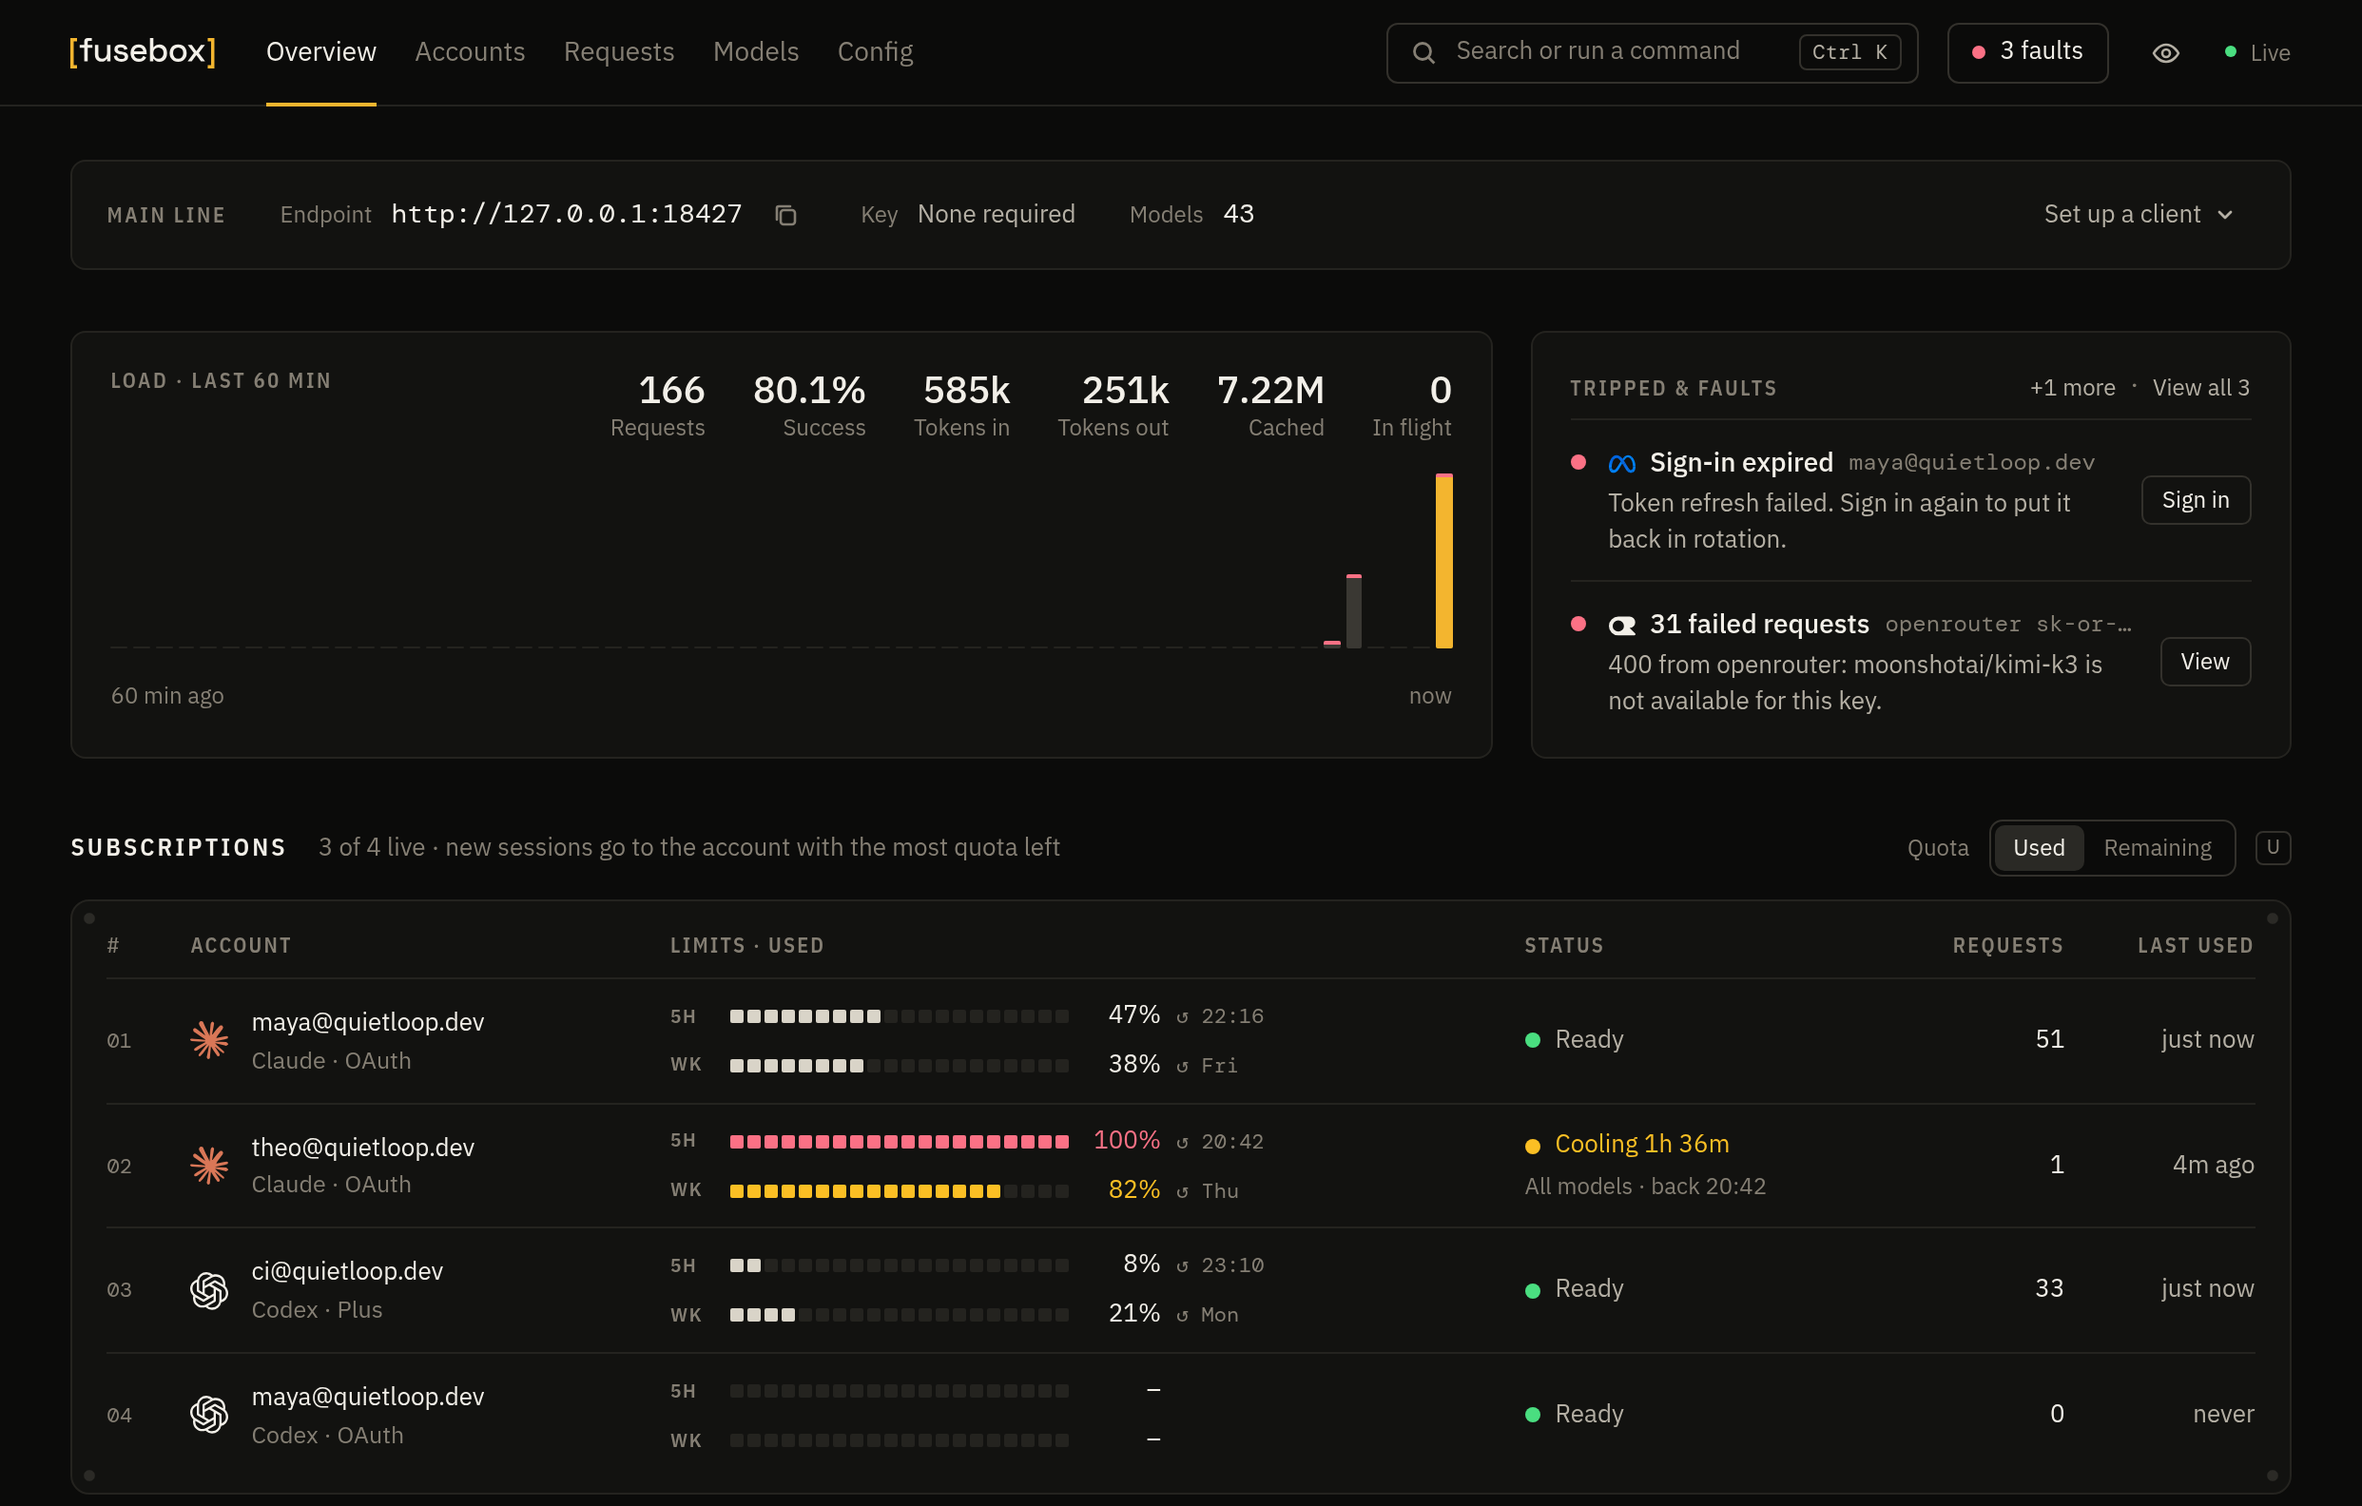
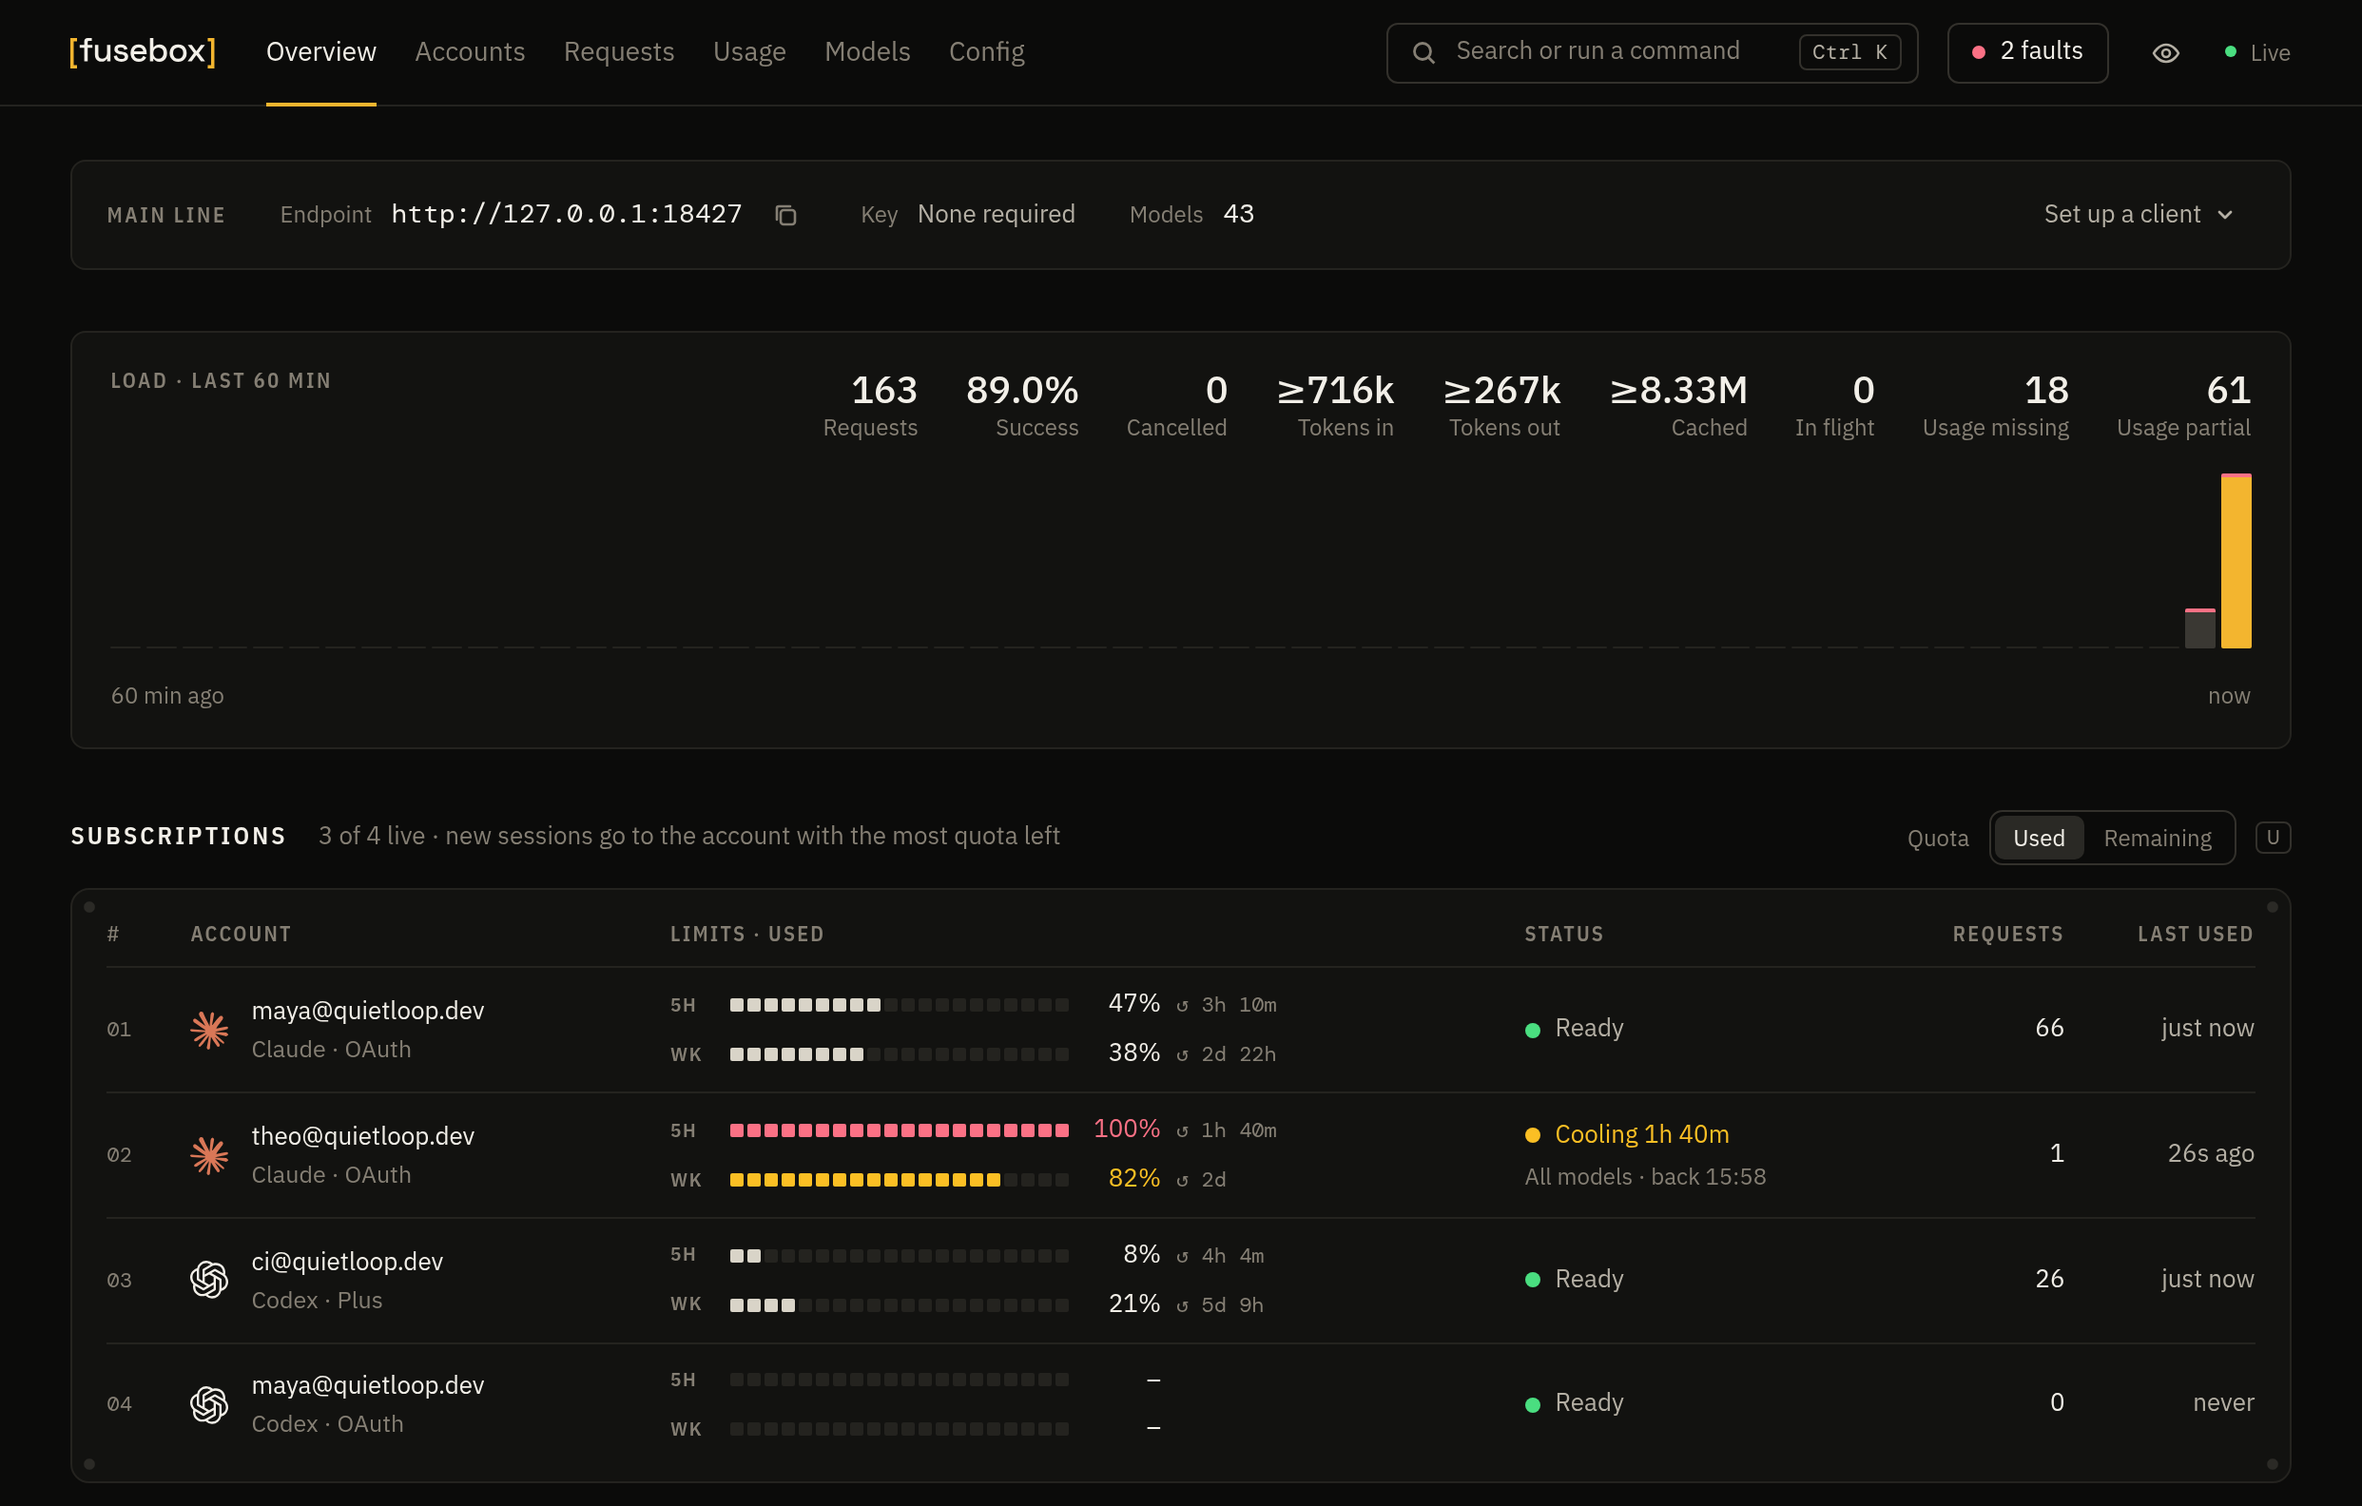
Give the overview's load card the full width
Drop the Tripped & faults card from the overview. Faults stay one tap away
in the header's faults button, which phones now also show on the overview.
Refresh the README overview screenshot.

diff --git a/ui/app.js b/ui/app.js
@@ -360,7 +360,6 @@ function onRequest(log) {
     patch('figures', figuresHTML);
     patch('bars', barsHTML);
     patch('recent', recentHTML);
-    patch('ov-faults', ovFaultsHTML);
   } else if (S.route === 'requests') {
     if (S.paused) patch('req-pause', pauseHTML);
     else insertRequest(log);
@@ -445,7 +444,6 @@ function refreshViews() {
   if (S.locked || !S.overview) return;
   if (S.route === 'overview') {
     patch('ov-main', mainlineHTML);
-    patch('ov-faults', ovFaultsHTML);
     patch('ov-subs', ovSubsHTML);
     patch('ov-other', ovOtherHTML);
     patch('recent', recentHTML);
@@ -510,7 +508,7 @@ function renderChrome() {
   if (S.route === 'overview' || S.locked) lead = `${WORDMARK}<span class="dot s6 ${S.live === 'offline' ? 'err' : 'ok'}" data-live-dot aria-hidden="true"></span>`;
   else if (S.route === 'accounts' && S.sub) lead = `<button class="back" type="button" data-act="to-list">${ICON.back}Accounts</button>`;
   else lead = `${MARK}<span class="title">${TITLES[S.route]}</span>`;
-  $('#mbar').innerHTML = `${lead}${S.route !== 'overview' ? down : ''}<span class="grow"></span>${ready && S.route !== 'overview' ? '<span class="faults-slot" data-faults-slot></span>' : ''}${ready ? searchBtn : ''}${privacyBtn}`;
+  $('#mbar').innerHTML = `${lead}${S.route !== 'overview' ? down : ''}<span class="grow"></span>${ready ? '<span class="faults-slot" data-faults-slot></span>' : ''}${ready ? searchBtn : ''}${privacyBtn}`;
   $('.bar .search').hidden = !ready;
   renderPrivacy();
   renderLive();
@@ -738,15 +736,6 @@ function alertsList() {
   return out.sort((x, y) => (x.lvl === y.lvl ? 0 : x.lvl === 'err' ? -1 : 1));
 }
 
-function alertHTML(al, i) {
-  const a = accountById(al.id);
-  if (!a) return '';
-  return `<div class="alert"${mob() ? ` data-open="${esc(a.id)}"` : ''}><span class="dot ${al.lvl}"></span>
-    <div class="alert-main"><div class="alert-top">${acctLogo(a, 14)}<span class="alert-title">${esc(al.title)}</span>${mob() ? '' : `<span class="alert-who">${esc(acctLabel(a))}</span>`}</div>
-      <div class="alert-detail">${esc(al.detail)}</div>${mob() ? `<span class="alert-who">${esc(acctLabel(a))}</span>` : ''}</div>
-    <button class="btn sm" type="button" data-act="alert" data-id="${i}">${esc(al.act)}</button></div>`;
-}
-
 function runAlert(i) {
   const al = alertsList()[Number(i)];
   if (!al) return;
@@ -764,17 +753,15 @@ function overviewHTML() {
       <div class="load-head"><h2 class="label" id="load-title">Load · last 60 min</h2><dl class="stats" id="figures">${figuresHTML()}</dl></div>
       <div class="bars" id="bars">${barsHTML()}</div>
       <div class="axis" aria-hidden="true"><span>60 min ago</span><span>now</span></div></section>`;
-  const faults = `<section class="card faults-card" id="ov-faults" aria-label="Tripped and faults">${ovFaultsHTML()}</section>`;
   const subs = `<section class="sec" id="ov-subs" aria-label="Subscriptions">${ovSubsHTML()}</section>`;
   const other = `<section class="sec" id="ov-other" aria-label="Other circuits">${ovOtherHTML()}</section>`;
   const latest = `<section class="sec" aria-labelledby="latest-title"><div class="sec-head"><h2 class="h-sec" id="latest-title">Latest requests</h2><span class="grow"></span><a class="link" href="#/requests">All requests →</a></div>
       <div id="recent">${recentHTML()}</div></section>`;
   if (mob()) {
     const loadSec = `<section class="sec" aria-labelledby="load-title-m"><h2 class="h-sec" id="load-title-m">Load · last 60 min</h2>${load.replace(' aria-labelledby="load-title"', '').replace('<h2 class="label" id="load-title">Load · last 60 min</h2>', '')}</section>`;
-    const faultSec = `<section class="sec"><div class="sec-head"><h2 class="h-sec">Tripped &amp; faults</h2><span class="kbd" style="border:0;padding:0;font-size:12px" id="ov-fault-count">${alertsList().length}</span></div>${faults}</section>`;
-    return main + faultSec + subs + loadSec + other + latest;
+    return main + subs + loadSec + other + latest;
   }
-  return `${main}<div class="ov-row">${load}${faults}</div>${subs}${other}${latest}`;
+  return `${main}${load}${subs}${other}${latest}`;
 }
 
 function figuresHTML() {
@@ -808,20 +795,6 @@ function barsHTML(series = S.overview.series) {
     return `<i${cls ? ` class="${cls}"` : ''} style="height:${b.requests ? Math.max(3, (b.requests / max) * 100) : 0}%" title="${esc(label)}"></i>`;
   });
   return `<span class="sr-only">${plural(total, 'request')} in the last hour</span>${bars.join('')}`;
-}
-
-function ovFaultsHTML() {
-  const list = alertsList();
-  const count = $('#ov-fault-count');
-  if (count) count.textContent = list.length;
-  if (mob()) {
-    return list.length ? list.map(alertHTML).join('') : '<p class="empty-line">Nothing tripped. Every account is in rotation.</p>';
-  }
-  const more = list.length - 2;
-  const head = `<div class="head"><h2 class="label">Tripped &amp; faults</h2>${more > 0
-    ? `<button class="more-btn" type="button" data-act="faults"><span>+${more} more</span><span class="mono dim">·</span><span>View all ${list.length}</span></button>`
-    : `<span class="mono dim" style="font-size:12px">${list.length}</span>`}</div>`;
-  return head + (list.length ? list.slice(0, 2).map(alertHTML).join('') : '<p class="empty-line" style="border-top:1px solid var(--line)">Nothing tripped. Every account is in rotation.</p>');
 }
 
 const ROUTING_TEXT = {
@@ -2419,7 +2392,7 @@ document.addEventListener('click', (e) => {
     case 'close-palette': return closePalette();
     case 'faults': return toggleFaults(el);
     case 'close-faults': return closeFaults();
-    case 'alert': case 'alert-open': return runAlert(id);
+    case 'alert-open': return runAlert(id);
     case 'open-acc': return openAccount(id);
     case 'close-drawer': return closeDrawer();
     case 'to-list': location.hash = '#/accounts'; return;

diff --git a/ui/style.css b/ui/style.css
@@ -402,8 +402,7 @@ h1, h2, h3, p { margin: 0; }
   .code { font-size: 12px; padding: 12px 14px; white-space: pre; overflow-x: auto; overflow-wrap: normal; }
 }
 
-.ov-row { display: flex; flex-wrap: wrap; gap: 20px; }
-.load { flex: 999 1 560px; display: flex; flex-direction: column; gap: 16px; }
+.load { display: flex; flex-direction: column; gap: 16px; }
 .load-head { display: flex; flex-wrap: wrap; align-items: flex-start; justify-content: space-between; gap: 12px 20px; }
 .stats { display: flex; flex-wrap: wrap; gap: 10px clamp(18px, 2vw, 28px); margin: 0; }
 .stats > div { display: flex; flex-direction: column; align-items: flex-end; }
@@ -418,7 +417,6 @@ h1, h2, h3, p { margin: 0; }
 .bars i.zero.now { background: var(--brand); }
 .axis { display: flex; justify-content: space-between; font-size: 12px; color: var(--fg-3); }
 @media (max-width: 759px) {
-  .load { flex: none; }
   .load { padding: 14px; gap: 14px; }
   .stats { display: grid; grid-template-columns: repeat(3, minmax(0, 1fr)); gap: 12px 10px; }
   .stats > div { align-items: flex-start; }
@@ -426,29 +424,6 @@ h1, h2, h3, p { margin: 0; }
   .stats dd { font-size: 17px; line-height: 1.2; letter-spacing: 0; }
   .bars, .bars.h72 { height: 64px; gap: 2px; }
   .axis { font-size: 11.5px; }
-}
-
-.faults-card { flex: 1 1 400px; display: flex; flex-direction: column; padding: 18px 20px 8px; }
-.faults-card .head { display: flex; align-items: center; justify-content: space-between; gap: 12px; margin-bottom: 6px; }
-.more-btn { display: flex; align-items: center; gap: 6px; padding: 2px 0; background: none; border: 0; font-size: 12px; color: var(--fg-2); }
-.more-btn:hover { color: var(--fg); }
-.alert { display: flex; gap: 12px; padding: 12px 0; border-top: 1px solid var(--line); }
-.alert > .dot { margin-top: 6px; }
-.alert-main { flex: 1; min-width: 0; display: flex; flex-direction: column; gap: 2px; }
-.alert-top { display: flex; align-items: center; gap: 8px; min-width: 0; }
-.alert-title { font-weight: 500; white-space: nowrap; }
-.alert-who { font: 400 12px/1.4 var(--mono); color: var(--fg-3); overflow: hidden; text-overflow: ellipsis; white-space: nowrap; }
-.alert-detail { font-size: 13px; color: var(--fg-2); text-wrap: pretty; }
-.alert > .btn { align-self: center; }
-@media (max-width: 759px) {
-  .faults-card { flex: none; padding: 0; }
-  .alert { padding: 12px 14px; border-top: 0; border-bottom: 1px solid var(--line-soft); cursor: pointer; }
-  .alert:last-child { border-bottom: 0; }
-  .alert-main { gap: 3px; }
-  .alert-title { font-size: 14px; }
-  .alert-who { font-size: 11.5px; }
-  .alert > .btn { padding: 6px 10px; font-size: 12.5px; }
-  .faults-card .empty-line { padding: 14px; }
 }
 
 /* subscriptions */

diff --git a/ui/index.html b/ui/index.html
@@ -1,7 +1,7 @@
 <!doctype html>
 <!--
 Fusebox dashboard. One operator panel for the proxy: the main line (endpoint and key),
-the hour of load, what has tripped, every account's quota meters, and live traffic.
+the hour of load, every account's quota meters, live traffic, and what has tripped.
 Design system: DESIGN.md. Warm near-black surfaces, IBM Plex Sans for text, Plex Sans
 Condensed caps for labels, DM Mono for data, 20-segment quota meters, amber (#F3B52F)
 only for the active tab, the live bar and the phone tab indicator.

diff --git a/DESIGN.md b/DESIGN.md
@@ -151,7 +151,7 @@ Mode: Operate. Familiar controls, dense tables, tabular numbers, keyboard shortc
 Self-hosted from `ui/fonts/` (latin subset, SIL OFL 1.1), served at `/ui/fonts/*` with no external requests.
 
 - IBM Plex Sans for everything people read: 14px/1.45 body, 13px rows and buttons, 12–12.5px metadata, 20px/500 figures.
-- IBM Plex Sans Condensed, uppercase and tracked, for labels: 22px page titles (Accounts, Requests, Models, Config), 13px section titles (Subscriptions, Other circuits, Latest requests), 11px panel labels (Main line, Load · last 60 min, Tripped & faults) and table headers, 10.5px meter labels (5H, WK), `NEEDS RESTART` and `NEXT`. Labels are written in sentence case in the markup and set in capitals by CSS.
+- IBM Plex Sans Condensed, uppercase and tracked, for labels: 22px page titles (Accounts, Requests, Models, Config), 13px section titles (Subscriptions, Other circuits, Latest requests), 11px panel labels (Main line, Load · last 60 min) and table headers, 10.5px meter labels (5H, WK), `NEEDS RESTART` and `NEXT`. Labels are written in sentence case in the markup and set in capitals by CSS.
 - DM Mono for data: the endpoint, keys, model ids, times, status codes, session ids, file paths, YAML and keyboard hints.
 - `font-variant-numeric: tabular-nums` everywhere.
 
@@ -159,7 +159,7 @@ Self-hosted from `ui/fonts/` (latin subset, SIL OFL 1.1), served at `/ui/fonts/*
 
 Fluid and full width (no max-width container). Desktop: a 56px header with the wordmark (the mark below 900px), five tabs (Overview, Accounts, Requests, Models, Config), the search button (⌘K), the faults button, the privacy toggle and Live / Reconnecting. Phones (below 760px): a 52px header (the wordmark on Overview, otherwise the mark and the page title) and a 64px bottom tab bar with an amber 16×2px indicator.
 
-Overview, top to bottom: the main line (endpoint, key, model count and "Set up a client", open until the first request), then Load · last 60 min beside Tripped & faults, Subscriptions, Other circuits, Latest requests. On phones the order is main line, faults, subscriptions, load, other circuits, latest requests.
+Overview, top to bottom: the main line (endpoint, key, model count and "Set up a client", open until the first request), then Load · last 60 min across the full width, Subscriptions, Other circuits, Latest requests. Tripped accounts are listed by the faults button in the top bar, not on the page. On phones the order is main line, subscriptions, load, other circuits, latest requests, and the faults button sits in the header on every page.
 
 Column tiers: Requests adds First token at 1100px and In / Out / Cached at 1360px; Accounts adds Traffic at 1100px and # / Last used at 1380px; Overview's subscriptions add # and Requests at 1180px and latest requests add First token at 1240px; Models shows route order beside the ids from 1180px; Config's section nav becomes chips below 980px.
 

diff --git a/README.md b/README.md
@@ -20,7 +20,7 @@ Point Claude Code, Codex, your editor or any SDK at one URL and stop caring whic
 
 <br>
 
-<img src="assets/screenshots/overview.png" alt="Fusebox dashboard: the main line, an hour of load, tripped accounts, and every subscription's 5-hour and weekly limits side by side" width="100%">
+<img src="assets/screenshots/overview.png" alt="Fusebox dashboard: the main line, an hour of load, and every subscription's 5-hour and weekly limits side by side" width="100%">
 
 <br>
 
